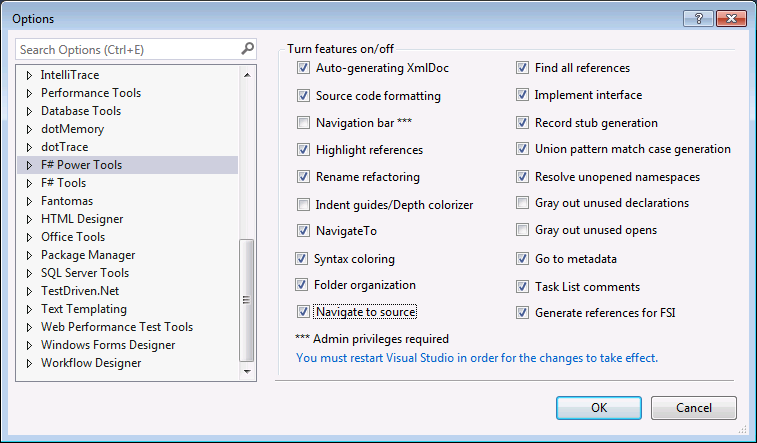
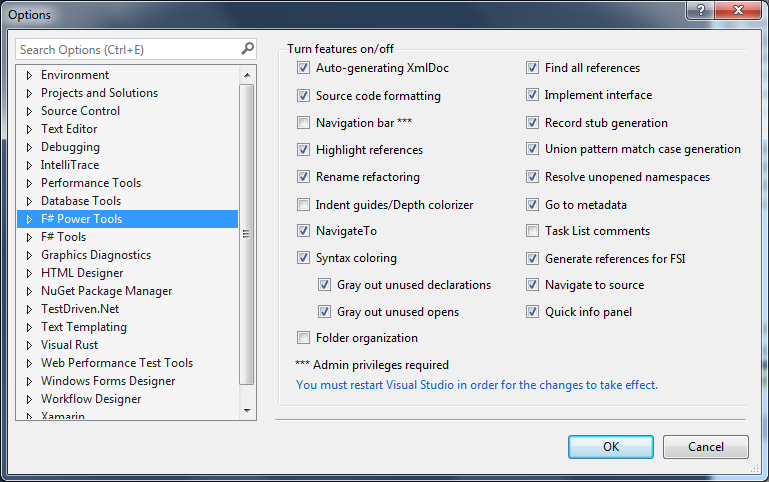
add docs for Quick info panel
better quick info panel text formatting in some cases

diff --git a/src/FSharpVSPowerTools/GeneralOptionsControl.Designer.cs b/src/FSharpVSPowerTools/GeneralOptionsControl.Designer.cs
@@ -31,6 +31,7 @@ namespace FSharpVSPowerTools
         private void InitializeComponent()
         {
             this.grbOptions = new System.Windows.Forms.GroupBox();
+            this.chbQuickInfoPanel = new System.Windows.Forms.CheckBox();
             this.chbGoToSymbolSource = new System.Windows.Forms.CheckBox();
             this.chbGenerateReferences = new System.Windows.Forms.CheckBox();
             this.chbUnusedOpens = new System.Windows.Forms.CheckBox();
@@ -53,7 +54,6 @@ namespace FSharpVSPowerTools
             this.lblInfo = new System.Windows.Forms.Label();
             this.chbFormatting = new System.Windows.Forms.CheckBox();
             this.chbXmlDoc = new System.Windows.Forms.CheckBox();
-            this.chbQuickInfoPanel = new System.Windows.Forms.CheckBox();
             this.grbOptions.SuspendLayout();
             this.SuspendLayout();
             // 
@@ -88,6 +88,18 @@ namespace FSharpVSPowerTools
             this.grbOptions.TabIndex = 0;
             this.grbOptions.TabStop = false;
             this.grbOptions.Text = "Turn features on/off";
+            // 
+            // chbQuickInfoPanel
+            // 
+            this.chbQuickInfoPanel.AutoSize = true;
+            this.chbQuickInfoPanel.Checked = true;
+            this.chbQuickInfoPanel.CheckState = System.Windows.Forms.CheckState.Checked;
+            this.chbQuickInfoPanel.Location = new System.Drawing.Point(213, 227);
+            this.chbQuickInfoPanel.Name = "chbQuickInfoPanel";
+            this.chbQuickInfoPanel.Size = new System.Drawing.Size(103, 17);
+            this.chbQuickInfoPanel.TabIndex = 22;
+            this.chbQuickInfoPanel.Text = "Quick info panel";
+            this.chbQuickInfoPanel.UseVisualStyleBackColor = true;
             // 
             // chbGoToSymbolSource
             // 
@@ -245,7 +257,7 @@ namespace FSharpVSPowerTools
             this.chbSyntaxColoring.AutoSize = true;
             this.chbSyntaxColoring.Checked = true;
             this.chbSyntaxColoring.CheckState = System.Windows.Forms.CheckState.Checked;
-            this.chbSyntaxColoring.Location = new System.Drawing.Point(15, 181);
+            this.chbSyntaxColoring.Location = new System.Drawing.Point(16, 180);
             this.chbSyntaxColoring.Name = "chbSyntaxColoring";
             this.chbSyntaxColoring.Size = new System.Drawing.Size(98, 17);
             this.chbSyntaxColoring.TabIndex = 11;
@@ -342,18 +354,6 @@ namespace FSharpVSPowerTools
             this.chbXmlDoc.TabIndex = 1;
             this.chbXmlDoc.Text = "Auto-generating XmlDoc";
             this.chbXmlDoc.UseVisualStyleBackColor = true;
-            // 
-            // chbQuickInfoPanel
-            // 
-            this.chbQuickInfoPanel.AutoSize = true;
-            this.chbQuickInfoPanel.Checked = true;
-            this.chbQuickInfoPanel.CheckState = System.Windows.Forms.CheckState.Checked;
-            this.chbQuickInfoPanel.Location = new System.Drawing.Point(213, 227);
-            this.chbQuickInfoPanel.Name = "chbQuickInfoPanel";
-            this.chbQuickInfoPanel.Size = new System.Drawing.Size(103, 17);
-            this.chbQuickInfoPanel.TabIndex = 22;
-            this.chbQuickInfoPanel.Text = "Quick info panel";
-            this.chbQuickInfoPanel.UseVisualStyleBackColor = true;
             // 
             // GeneralOptionsControl
             // 

diff --git a/src/FSharpVSPowerTools/QuickInfoMarginProvider.cs b/src/FSharpVSPowerTools/QuickInfoMarginProvider.cs
@@ -11,7 +11,7 @@ using System.ComponentModel.Composition;
 namespace Winterdom.Viasfora.Margins
 {
     [Export(typeof(IWpfTextViewMarginProvider))]
-    [Name(FSharpVSPowerTools.Constants.symbolInfoMargin)]
+    [Name(FSharpVSPowerTools.Constants.QuickInfoMargin)]
     [Order(After = PredefinedMarginNames.HorizontalScrollBar)]
     [MarginContainer(PredefinedMarginNames.Bottom)]
     [ContentType("F#")]
